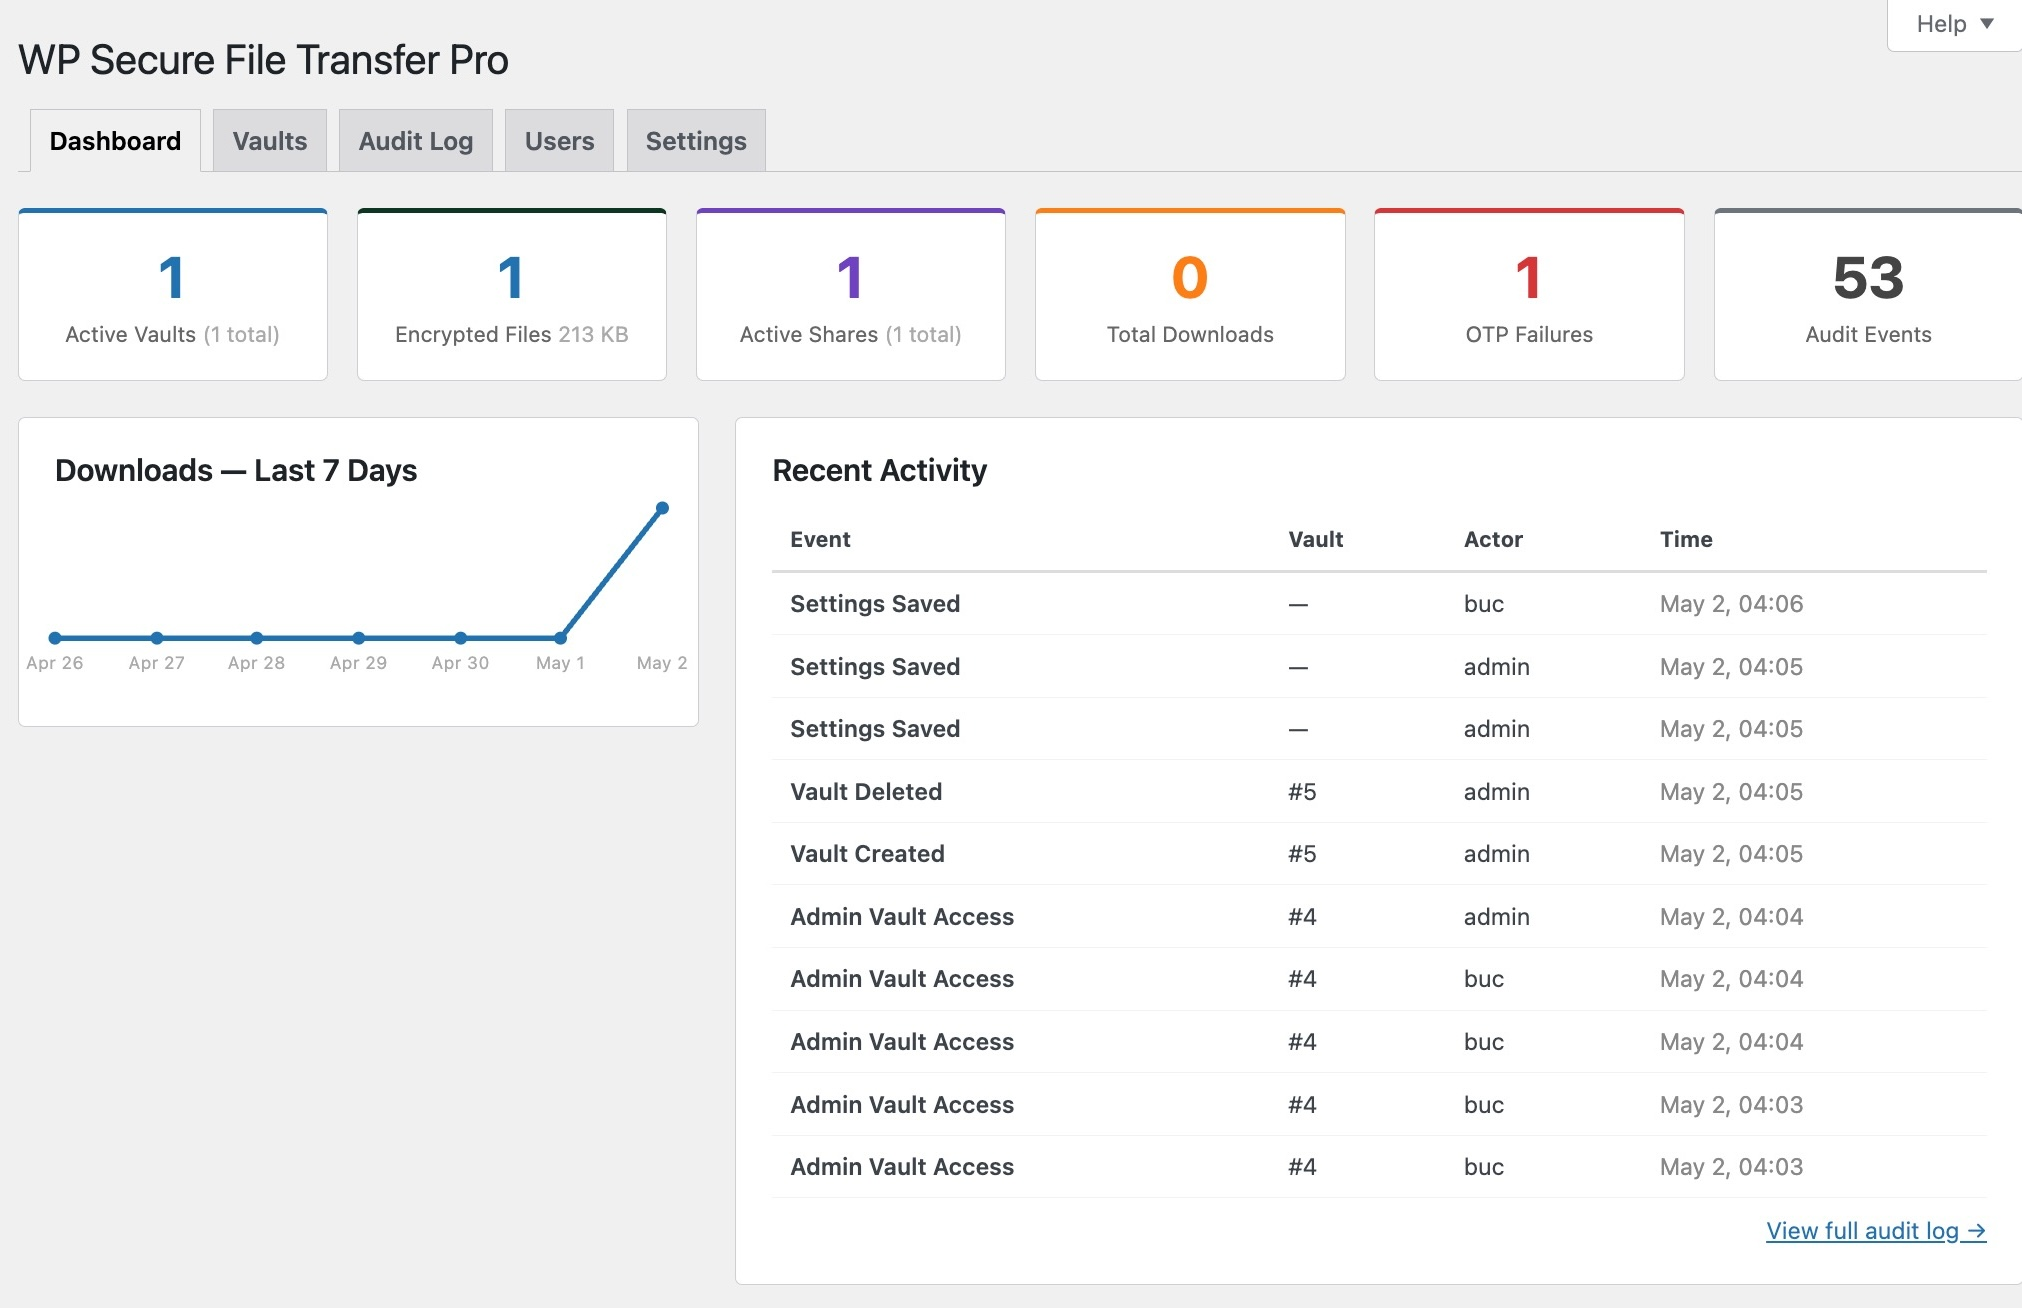
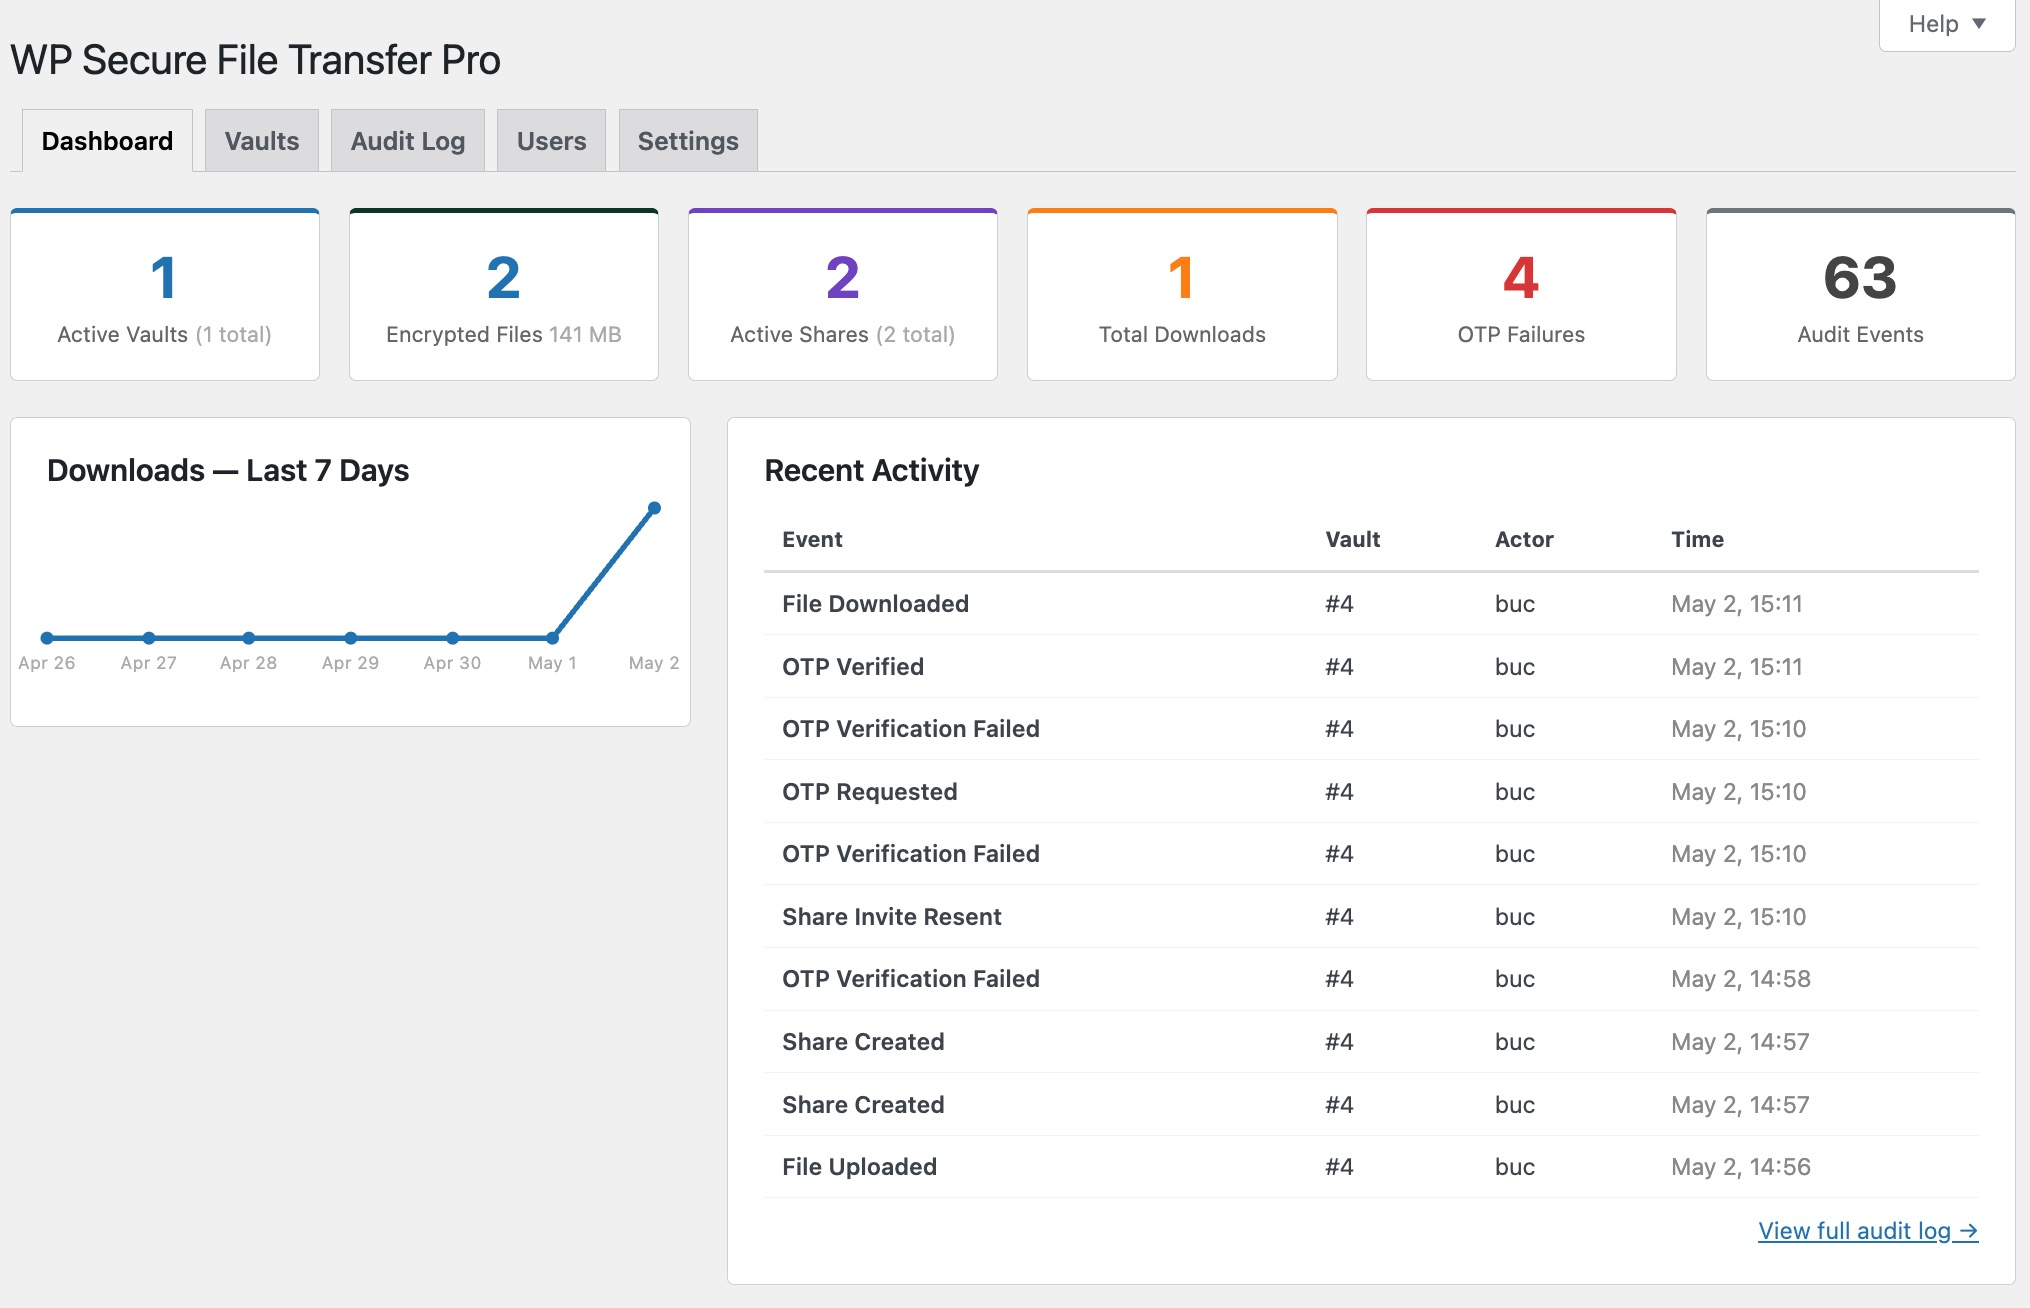
v1.1.1

diff --git a/README.md b/README.md
@@ -13,7 +13,7 @@ Encrypted file vaults with two-factor external sharing, comprehensive audit logg
 
 WP Secure File Transfer Pro lets authenticated WordPress users upload files into named **vaults**, where they are encrypted at rest using AES-256-CBC before being written to disk outside the webroot. Vault contents can be shared securely with external, unauthenticated recipients through a two-factor verification flow: invite email → email confirmation → one-time code. Every action across the plugin is recorded in an immutable audit log.
 
-[[SCREENSHOT: Admin Dashboard tab showing stat cards, 7-day activity sparkline, Recent Activity table, and Security Status card]]
+![Admin Dashboard](images/AdminDashboard.jpg)
 
 ---
 
@@ -71,7 +71,7 @@ Detailed documentation is in the [`docs/`](docs/) directory:
 4. Confirm **Dashboard → Security Status** shows all green.
 5. Go to **Secure Transfer → Users** to grant vault access to non-admin users.
 
-[[SCREENSHOT: Security Status card showing all green indicators: key source, algorithm, OTP TTL, storage path, and cron status]]
+![Admin Dashboard Security Status](images/AdminDashboard_SecurityStatus.jpg)
 
 ---
 
@@ -103,7 +103,7 @@ Place this line before the `/* That's all, stop editing! */` comment. When the c
 
 WordPress administrators are always exempt from share limits and expiration restrictions. Grant and manage access at **Secure Transfer → Users**.
 
-[[SCREENSHOT: Users tab showing SFT Admins section, Vault Users section, and the user search panel with contextual action buttons]]
+![Admin Dashboard - Users](images/AdminDashboard_Users.jpg)
 
 ---
 
@@ -116,8 +116,8 @@ WordPress administrators are always exempt from share limits and expiration rest
 5. A 32-byte download session token is issued as a WordPress transient (30-minute TTL).
 6. Each file download validates the session token and share accessibility before decrypting and streaming.
 
-[[SCREENSHOT: Recipient email confirmation page showing the email input form with the vault name and sender displayed]]
-[[SCREENSHOT: Recipient download page showing the file list for a vault with Download buttons and file sizes]]
+![Recipient Email Confirmation](images/Recipient_EmailConfirmation.jpg)
+![Recipient Download Page](images/Recipient_DownloadPage.jpg)
 
 ---
 
@@ -133,7 +133,7 @@ Accessible at **Secure Transfer** (requires `manage_options` or `sft_admin` capa
 | Users | Manage SFT Admins and Vault Users; grant, promote, demote, revoke; user search |
 | Settings | All plugin configuration; encryption key management; SIEM log output |
 
-[[SCREENSHOT: Vaults tab with the filter panel and a vault table showing sortable column headers with active sort indicator on "Created"]]
+![Admin Dashboard - Vaults](images/AdminDashboard_Vaults.jpg)
 
 ---
 
@@ -150,7 +150,7 @@ Users with vault access manage their own vaults under **My Vaults** in wp-admin.
 
 The `[sft_my_vaults]` shortcode renders equivalent functionality on any front-end page.
 
-[[SCREENSHOT: Vault detail page showing the Files section with two uploaded files, the Shares section with one active share, and the Share creation form]]
+![User Dashboard - Vault Detail](images/UserDashboard_VaultDetail.jpg)
 
 ---
 
@@ -168,7 +168,7 @@ Two widgets appear on the wp-admin home screen:
 - Last 5 activity events
 - Link to My Vaults
 
-[[SCREENSHOT: WordPress dashboard showing both widgets side by side — the admin overview widget and the personal My Vaults widget]]
+![Wordpress Dashboard -Widgets](images/WordpressDashboard_Widgets.jpg)
 
 ---
 